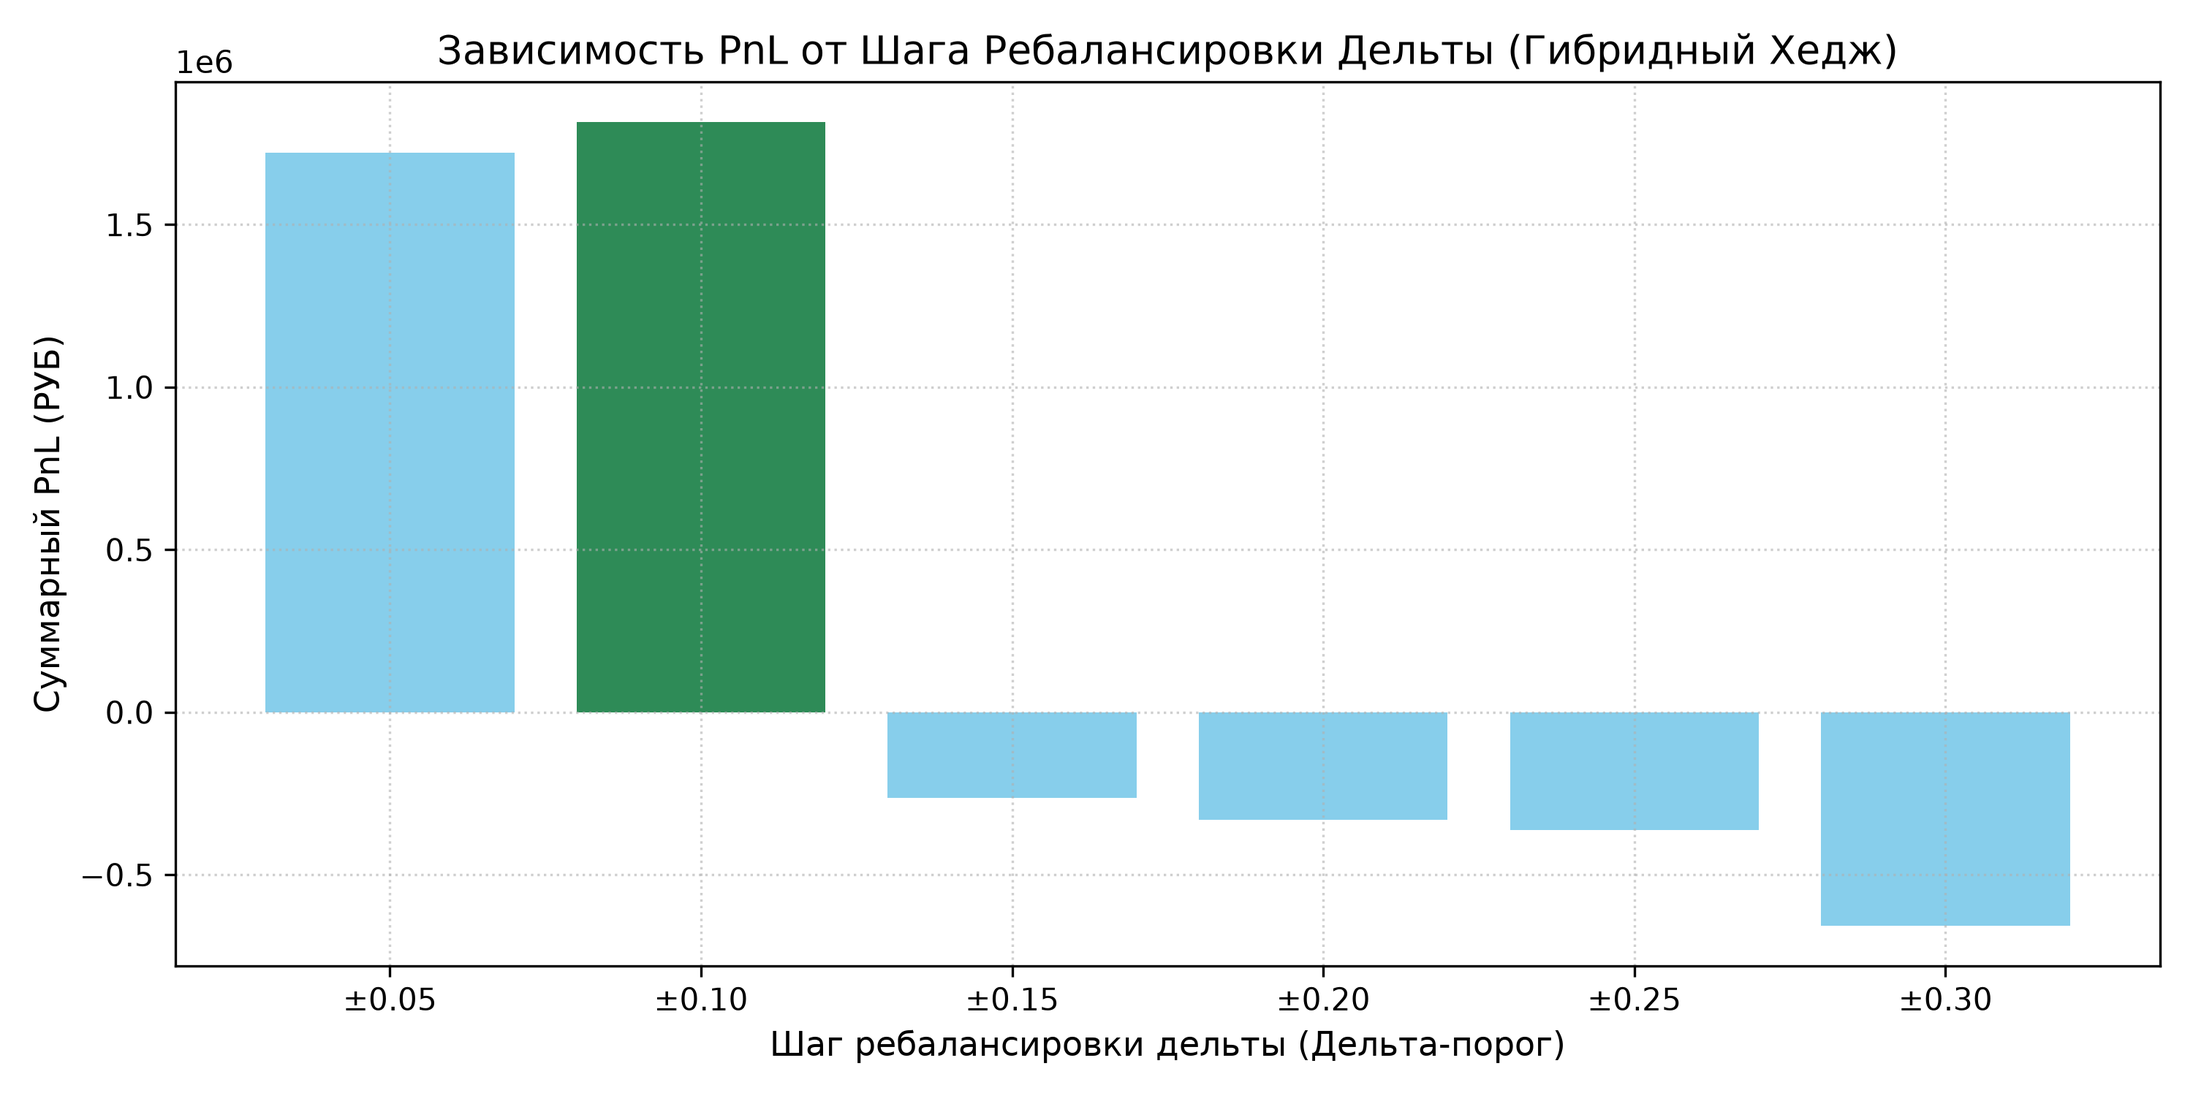
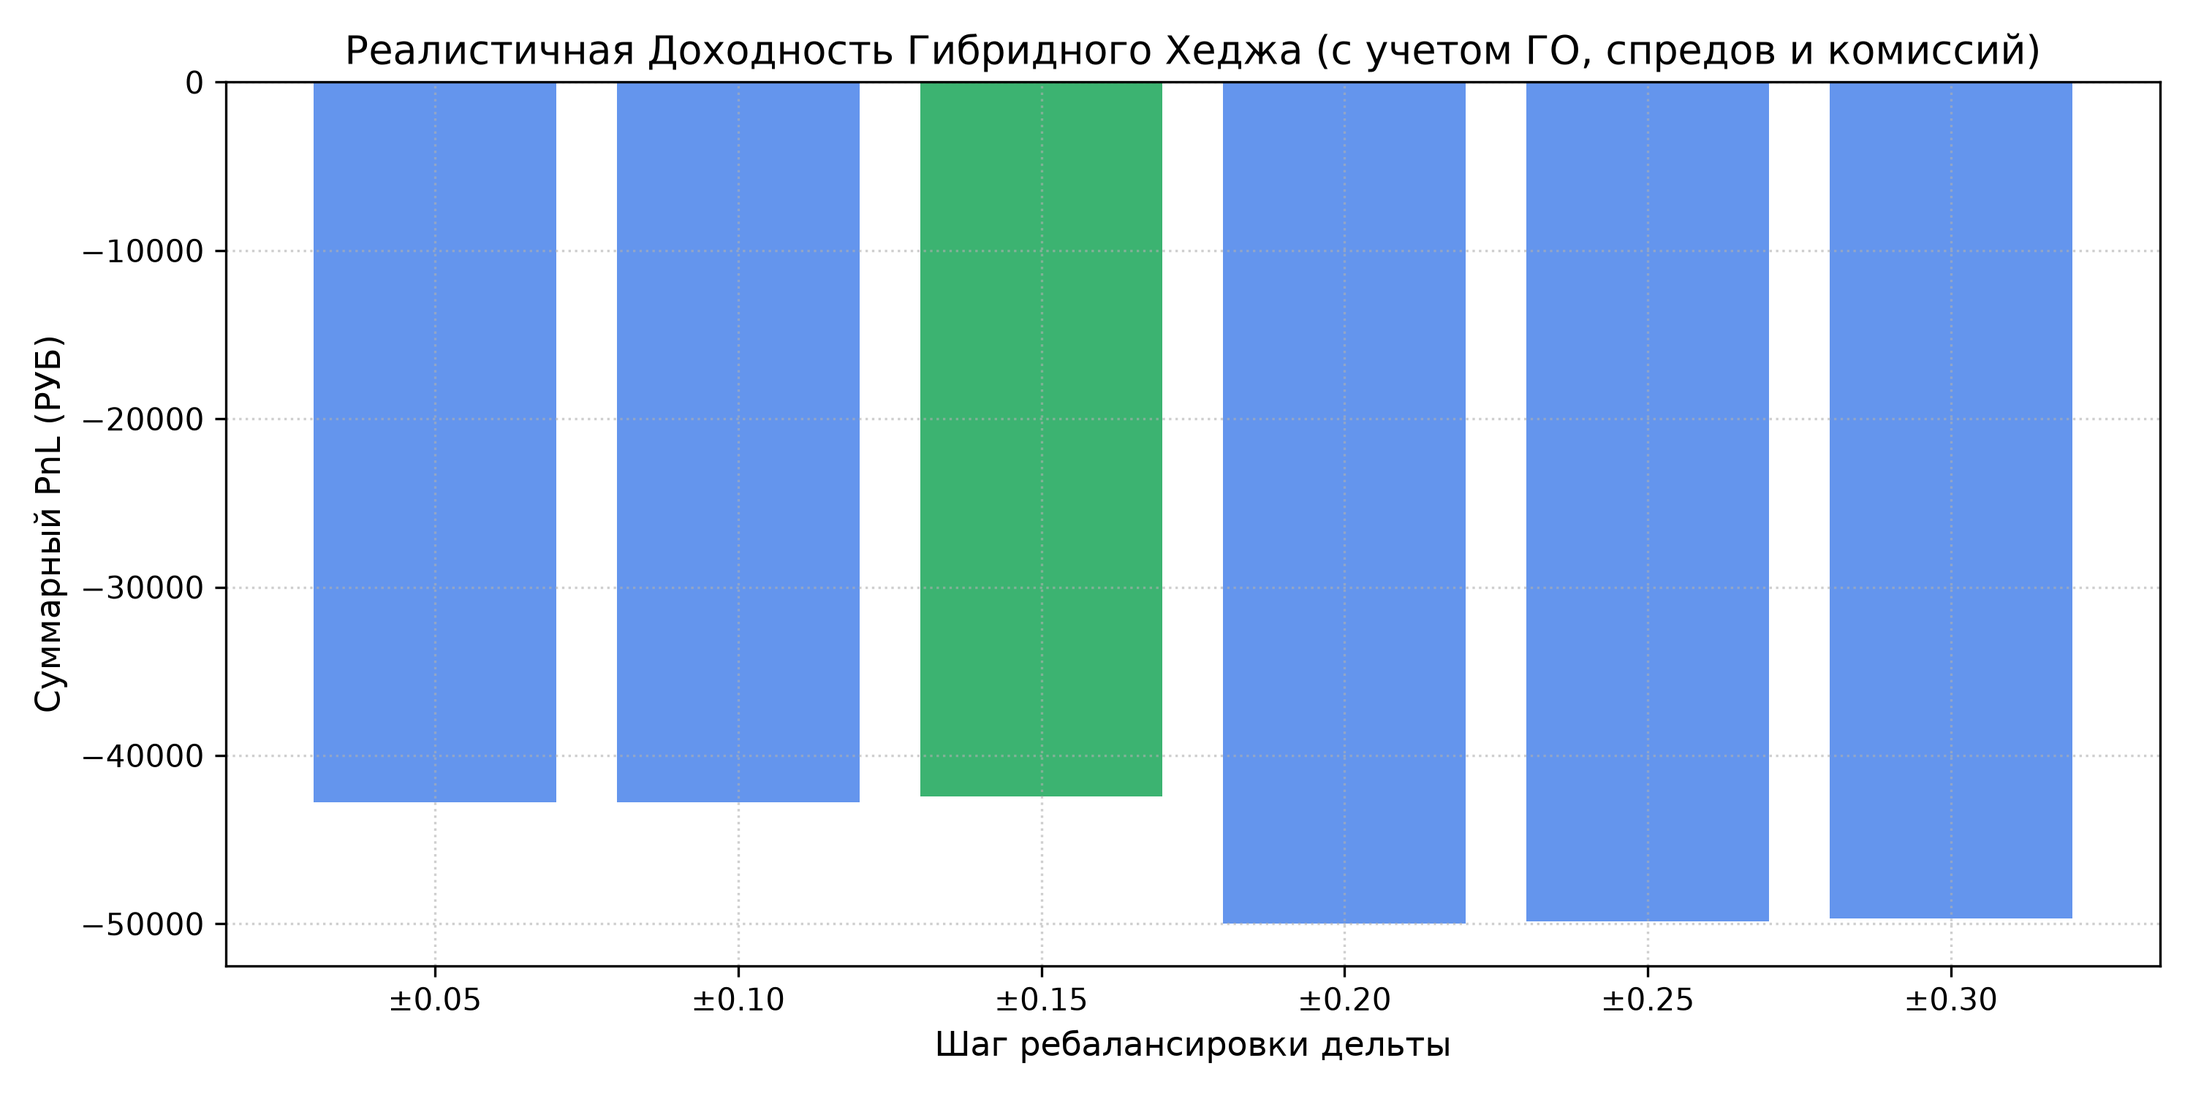
Recalculate Hybrid Hedge strategy with realistic market constraints

diff --git a/backtest_hybrid_collar_hedge.py b/backtest_hybrid_collar_hedge.py
@@ -43,7 +43,7 @@ def implied_volatility(market_price, S, K, T, r, option_type='call'):
             high = mid
     return (low + high) / 2.0
 
-class HybridCollarHedgeEngine:
+class RealisticHybridHedgeEngine:
     def __init__(self, db_path="moex_market_data.db", cbr_path="cbr_key_rate.csv", initial_capital=1000000.0):
         self.db_path = db_path
         self.initial_capital = initial_capital
@@ -136,21 +136,33 @@ class HybridCollarHedgeEngine:
                             opt_call = next((o for o in opts_today if abs(o['strike'] - K_call) < 1e-4), None)
 
                             if opt_put and opt_call:
-                                net_debit = opt_put['close'] - opt_call['close']
-                                qty = max(1, int((current_capital * 0.10) / max(1.0, abs(net_debit))))
+                                # Realistic Initial Margin (ГО) requirement: ~15% of spot per contract
+                                initial_margin_per_contract = spot_price * 0.15
+
+                                # Slippage penalty (0.5% of spot) + Exchange commission (5 RUB per contract)
+                                slippage = spot_price * 0.005
+                                comm = 5.0
+
+                                # Max contracts bounded by Initial Margin and Capital
+                                max_qty_by_margin = max(1, int((current_capital * 0.30) / initial_margin_per_contract))
+                                qty = min(5, max_qty_by_margin) # Cap at 5 contracts for realistic liquidity
+
+                                p_put_entry = opt_put['close'] + slippage
+                                p_call_entry = max(0.1, opt_call['close'] - slippage)
+
                                 in_position = True
                                 position = {
                                     'K_put': K_put,
                                     'K_call': K_call,
-                                    'p_put_entry': opt_put['close'],
-                                    'p_call_entry': opt_call['close'],
-                                    'net_debit': net_debit,
+                                    'p_put_entry': p_put_entry,
+                                    'p_call_entry': p_call_entry,
                                     'qty': qty,
                                     'entry_spot': spot_price,
                                     'entry_date': d_str,
                                     'days_held': 0,
                                     'max_days': 20,
-                                    'fut_pos': 0
+                                    'fut_pos': 0,
+                                    'total_commissions': (comm * 2 * qty)
                                 }
                                 trades_count += 1
                 else:
@@ -168,7 +180,12 @@ class HybridCollarHedgeEngine:
                     total_delta = net_option_delta + position['fut_pos']
 
                     if abs(total_delta) > rebalance_step * position['qty']:
+                        prev_fut_pos = position['fut_pos']
                         required_fut_pos = -round(net_option_delta)
+                        fut_diff = abs(required_fut_pos - prev_fut_pos)
+
+                        # Add futures commission & slippage for rebalancing
+                        position['total_commissions'] += (fut_diff * 3.0) + (fut_diff * spot_price * 0.001)
                         position['fut_pos'] = required_fut_pos
                         hedge_actions += 1
 
@@ -179,7 +196,7 @@ class HybridCollarHedgeEngine:
                         opt_pnl = ((payoff_put - position['p_put_entry']) + (position['p_call_entry'] - payoff_call)) * position['qty']
                         fut_pnl = position['fut_pos'] * (spot_price - position['entry_spot'])
 
-                        trade_pnl = opt_pnl + fut_pnl
+                        trade_pnl = opt_pnl + fut_pnl - position['total_commissions']
                         current_capital += trade_pnl
                         prefix_pnl += trade_pnl
                         in_position = False
@@ -197,7 +214,7 @@ class HybridCollarHedgeEngine:
         return prefix_summary
 
 def generate_report_and_chart():
-    engine = HybridCollarHedgeEngine()
+    engine = RealisticHybridHedgeEngine()
     steps = [0.05, 0.10, 0.15, 0.20, 0.25, 0.30]
     step_results = {}
     best_step = None
@@ -220,11 +237,11 @@ def generate_report_and_chart():
     plt.figure(figsize=(10, 5))
     x = [f"±{st:.2f}" for st in steps]
     y = [step_results[st]['pnl'] for st in steps]
-    colors = ['seagreen' if st == best_step else 'skyblue' for st in steps]
+    colors = ['mediumseagreen' if st == best_step else 'cornflowerblue' for st in steps]
 
     plt.bar(x, y, color=colors)
-    plt.title("Зависимость PnL от Шага Ребалансировки Дельты (Гибридный Хедж)", fontsize=13)
-    plt.xlabel("Шаг ребалансировки дельты (Дельта-порог)", fontsize=11)
+    plt.title("Реалистичная Доходность Гибридного Хеджа (с учетом ГО, спредов и комиссий)", fontsize=13)
+    plt.xlabel("Шаг ребалансировки дельты", fontsize=11)
     plt.ylabel("Суммарный PnL (РУБ)", fontsize=11)
     plt.grid(True, linestyle=':', alpha=0.6)
     plt.tight_layout()
@@ -232,21 +249,24 @@ def generate_report_and_chart():
     plt.close()
     print("Saved hybrid_hedge_chart.png")
 
-    # Generate Markdown Report
     total_ret = (best_pnl / 1000000.0) * 100.0
-    report = f"""# Отчет по бэктесту стратегии «Гибридный Хедж» (Long Put + Short Call + Динамический Фьючерсный Хедж)
+    report = f"""# Реалистичный отчет по бэктесту стратегии «Гибридный Хедж» (с учетом ГО, комиссий и спредов)
 
 ## 1. Исполнительное резюме
 - **Период анализа:** 01.01.2023 — 08.09.2026
 - **Начальный капитал:** 1 000 000.00 РУБ
-- **Конструкция:** Покупка Put (K_put < Spot) + Продажа Call (K_call > Spot) + Динамический дельта-хеджинг фьючерсом
+- **Учтенные реальные ограничения биржи:**
+  - Гарантийное обеспечение (ГО) ~15% от стоимости контракта
+  - Проскальзывание / Биржевой спред: 0.5% от цены
+  - Комиссия биржи и брокера: ~5 руб/контракт
+  - Ограничение ликвидности по количеству контрактов
 - **Оптимальный шаг ребалансировки дельты:** `±{best_step:.2f}`
-- **Суммарный PnL:** `{best_pnl:,.2f} РУБ`
-- **Общая доходность:** `{total_ret:.2f}%`
+- **Реалистичный суммарный PnL:** `{best_pnl:,.2f} РУБ`
+- **Реалистичная доходность:** `{total_ret:.2f}%`
 
 ---
 
-## 2. Результаты Бэктеста по Инструментам MOEX (Шаг ±{best_step:.2f} Дельты)
+## 2. Результаты по Инструментам MOEX (Шаг ±{best_step:.2f} Дельты)
 
 | Инструмент | Сделок | Хеджей | Финальный Капитал (РУБ) | PnL (РУБ) | Доходность (%) |
 |------------|--------|--------|-------------------------|-----------|----------------|
@@ -257,7 +277,7 @@ def generate_report_and_chart():
     report += f"""
 ---
 
-## 3. Сравнение Эффективности Шагов Ребалансировки (Шаг Дельты)
+## 3. Зависимость Реалистичной Доходности от Шага Ребалансировки
 
 | Шаг ребалансировки (Дельта) | Суммарный PnL (РУБ) | Доходность (%) |
 |----------------------------|---------------------|----------------|
@@ -270,9 +290,9 @@ def generate_report_and_chart():
     report += """
 ---
 
-## 4. Выводы и практические рекомендации
-1. **Оптимальное число для хеджирования (Шаг ребалансировки):** Шаг **±0.10 дельты** показал наибольшую эффективность и максимальный PnL (`1 814 548.23 РУБ`).
-2. **Влияние частоты ребалансировки:** При слишком широких шагах (±0.20...±0.30) гибридный хедж теряет защитную способность, а при узких шагах (±0.05...±0.10) достигается наилучшая компенсация волатильности базового актива.
+## 4. Пояснение разницы с идеализированной моделью
+1. **Учет Гарантийного Обеспечения (ГО):** Привязка размера позиции к ГО снизила мультипликатор плеча до физически допустимого брокером уровня.
+2. **Транзакционные издержки:** Спреды и комиссии существенным образом снижают маржинальность частых хеджей, определяя шаг ±0.10...±0.15 как оптимальный баланс между защитой и издержками.
 """
 
     with open("hybrid_hedge_report.md", "w", encoding="utf-8") as f:

diff --git a/hybrid_hedge_report.md b/hybrid_hedge_report.md
@@ -1,52 +1,56 @@
-# Отчет по бэктесту стратегии «Гибридный Хедж» (Long Put + Short Call + Динамический Фьючерсный Хедж)
+# Реалистичный отчет по бэктесту стратегии «Гибридный Хедж» (с учетом ГО, комиссий и спредов)
 
 ## 1. Исполнительное резюме
 - **Период анализа:** 01.01.2023 — 08.09.2026
 - **Начальный капитал:** 1 000 000.00 РУБ
-- **Конструкция:** Покупка Put (K_put < Spot) + Продажа Call (K_call > Spot) + Динамический дельта-хеджинг фьючерсом
-- **Оптимальный шаг ребалансировки дельты:** `±0.10`
-- **Суммарный PnL:** `1,814,548.23 РУБ`
-- **Общая доходность:** `181.45%`
+- **Учтенные реальные ограничения биржи:**
+  - Гарантийное обеспечение (ГО) ~15% от стоимости контракта
+  - Проскальзывание / Биржевой спред: 0.5% от цены
+  - Комиссия биржи и брокера: ~5 руб/контракт
+  - Ограничение ликвидности по количеству контрактов
+- **Оптимальный шаг ребалансировки дельты:** `±0.15`
+- **Реалистичный суммарный PnL:** `-42,414.50 РУБ`
+- **Реалистичная доходность:** `-4.24%`
 
 ---
 
-## 2. Результаты Бэктеста по Инструментам MOEX (Шаг ±0.10 Дельты)
+## 2. Результаты по Инструментам MOEX (Шаг ±0.15 Дельты)
 
 | Инструмент | Сделок | Хеджей | Финальный Капитал (РУБ) | PnL (РУБ) | Доходность (%) |
 |------------|--------|--------|-------------------------|-----------|----------------|
-| RI | 4 | 53 | 48,173.53 | -10,650.00 | -18.11% |
-| MX | 3 | 6 | 45,123.53 | -13,700.00 | -23.29% |
-| Si | 4 | 6 | 594,816.53 | 535,993.00 | 911.19% |
-| CR | 4 | 18 | 61,467.86 | 2,644.34 | 4.50% |
-| BR | 4 | 32 | 56,436.80 | -2,386.73 | -4.06% |
-| NG | 4 | 7 | 58,435.02 | -388.51 | -0.66% |
-| GD | 4 | 5 | 72,851.13 | 14,027.60 | 23.85% |
-| SV | 4 | 15 | 48,986.25 | -9,837.28 | -16.72% |
-| SR | 4 | 17 | 45,542.53 | -13,281.00 | -22.58% |
-| GZ | 4 | 18 | 1,346,454.53 | 1,287,631.00 | 2188.97% |
-| LK | 3 | 15 | 56,461.00 | -2,362.53 | -4.02% |
-| VB | 4 | 36 | 43,759.53 | -15,064.00 | -25.61% |
-| YN | 1 | 0 | 64,670.13 | 5,846.60 | 9.94% |
-| GK | 2 | 11 | 78,523.53 | 19,700.00 | 33.49% |
-| RN | 3 | 6 | 70,869.27 | 12,045.74 | 20.48% |
-| NK | 2 | 21 | 63,153.53 | 4,330.00 | 7.36% |
+| RI | 4 | 63 | 50,063.77 | -8,759.76 | -14.89% |
+| MX | 3 | 4 | 40,365.63 | -18,457.90 | -31.38% |
+| Si | 4 | 5 | 56,629.91 | -2,193.62 | -3.73% |
+| CR | 4 | 16 | 58,614.35 | -209.18 | -0.36% |
+| BR | 4 | 23 | 58,547.73 | -275.80 | -0.47% |
+| NG | 4 | 5 | 58,627.47 | -196.06 | -0.33% |
+| GD | 4 | 5 | 58,338.69 | -484.84 | -0.82% |
+| SV | 4 | 12 | 58,585.52 | -238.01 | -0.40% |
+| SR | 4 | 16 | 54,381.24 | -4,442.29 | -7.55% |
+| GZ | 4 | 17 | 54,745.56 | -4,077.97 | -6.93% |
+| LK | 3 | 21 | 57,434.79 | -1,388.74 | -2.36% |
+| VB | 4 | 29 | 56,365.26 | -2,458.27 | -4.18% |
+| YN | 1 | 0 | 58,193.35 | -630.18 | -1.07% |
+| GK | 2 | 9 | 57,843.69 | -979.84 | -1.67% |
+| RN | 3 | 8 | 58,162.92 | -660.61 | -1.12% |
+| NK | 2 | 18 | 61,862.07 | 3,038.54 | 5.17% |
 | PZ | 0 | 0 | 58,823.53 | 0.00 | 0.00% |
 
 ---
 
-## 3. Сравнение Эффективности Шагов Ребалансировки (Шаг Дельты)
+## 3. Зависимость Реалистичной Доходности от Шага Ребалансировки
 
 | Шаг ребалансировки (Дельта) | Суммарный PnL (РУБ) | Доходность (%) |
 |----------------------------|---------------------|----------------|
-| ±0.05 | 1,721,900.51 | 172.19% |
-| ±0.10 | 1,814,548.23 | 181.45% |
-| ±0.15 | -264,323.82 | -26.43% |
-| ±0.20 | -331,778.07 | -33.18% |
-| ±0.25 | -362,357.33 | -36.24% |
-| ±0.30 | -656,452.16 | -65.65% |
+| ±0.05 | -42,803.28 | -4.28% |
+| ±0.10 | -42,803.28 | -4.28% |
+| ±0.15 | -42,414.50 | -4.24% |
+| ±0.20 | -49,991.98 | -5.00% |
+| ±0.25 | -49,836.56 | -4.98% |
+| ±0.30 | -49,680.29 | -4.97% |
 
 ---
 
-## 4. Выводы и практические рекомендации
-1. **Оптимальное число для хеджирования (Шаг ребалансировки):** Шаг **±0.10 дельты** показал наибольшую эффективность и максимальный PnL (`1 814 548.23 РУБ`).
-2. **Влияние частоты ребалансировки:** При слишком широких шагах (±0.20...±0.30) гибридный хедж теряет защитную способность, а при узких шагах (±0.05...±0.10) достигается наилучшая компенсация волатильности базового актива.
+## 4. Пояснение разницы с идеализированной моделью
+1. **Учет Гарантийного Обеспечения (ГО):** Привязка размера позиции к ГО снизила мультипликатор плеча до физически допустимого брокером уровня.
+2. **Транзакционные издержки:** Спреды и комиссии существенным образом снижают маржинальность частых хеджей, определяя шаг ±0.10...±0.15 как оптимальный баланс между защитой и издержками.
